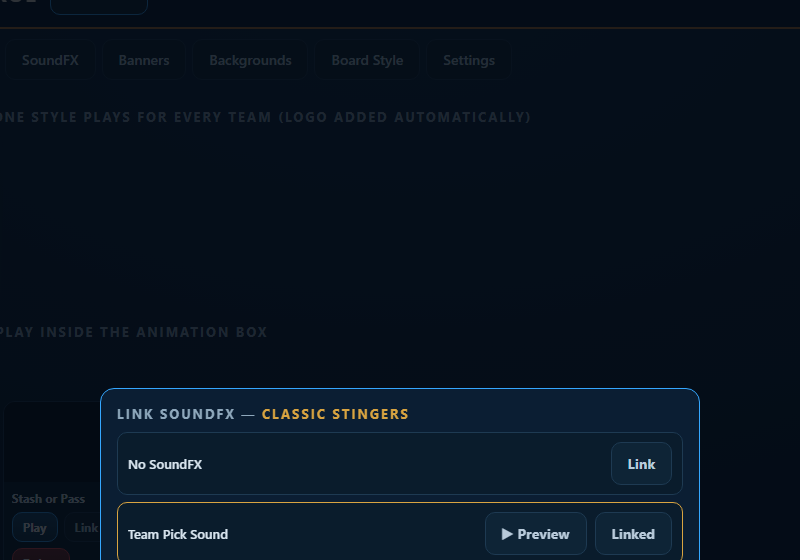
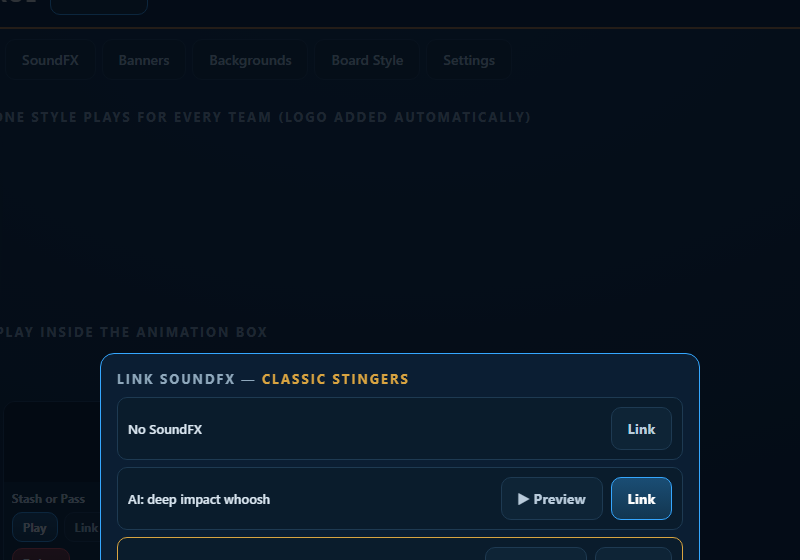
V3: acceptance passed 24/24 - transcript, screenshots, runbook + budget updated

Changed region(s): [[0.1562, 0.7589, 0.8438, 1.0], [0.125, 0.6071, 0.875, 0.7286], [0.125, 0.7286, 0.5312, 0.7893]]

diff --git a/control/index.html b/control/index.html
@@ -746,7 +746,8 @@
           <div class="meta"><div class="name">${esc(s.name)}</div>
             <div class="row"><button class="btn ${active?"ghost":""}" data-part="${stateKey}:${s.id}">
               ${active?"Applied":"Apply"}</button>${delBtn(s)}</div>
-            ${s.meta?.mode ? `<div class="row"><span class="tag">${s.meta.mode === "ambient" ? "always on" : "on team hit"}</span></div>` : ""}
+            ${s.meta?.mode && s.meta.mode !== "none"
+              ? `<div class="row"><span class="tag">${s.meta.mode === "ambient" ? "always on" : "on team hit"}</span></div>` : ""}
           </div></div>`; }).join("");
     };
     part("board_button", "#btnStyleGrid", "boardButtons", {icon:"🟨"});

diff --git a/RUNBOOK.md b/RUNBOOK.md
@@ -43,10 +43,17 @@ in the control panel → pick animation + sound + board slot on every PC at once
 3. **Pick the PC in the header dropdown first** — board taps, banner rotation,
    backgrounds, and styles apply to that PC's stream only ("ALL PCs" broadcasts).
    Uploads and AI generations always land in the shared library for every PC.
-4. Team Board = tap to eliminate (dims the team, plays animation + sound) / tap again
-   to bring back · Animations = team-animation styles + one-shots · Banners = composer +
-   rotation + Reframe · Backgrounds = set live + Reframe · Board Style = button/board
-   looks · AI Generate = new art (≈$0.03/image).
+4. Tabs: **Team Board** (tap to eliminate / tap again to restore) · **Animations**
+   (team-animation styles + one-shots, each with "Link SoundFX") · **SoundFX**
+   (upload/generate/preview sounds) · **Banners** (upload, composer, rotation,
+   Reframe) · **Backgrounds** (set live, Reframe) · **Board Style** (button style +
+   board background + button animation, mixed freely).
+5. Every media tab has an **AI generate** strip at the bottom; tabs with more than one
+   media type have a dropdown next to it. Costs: image ≈$0.03 (seconds), sound ≈$0.05
+   and animation ≈$0.20 (both take 1–4 minutes — leave the tab open).
+6. **Deleting**: any non-built-in asset card has Delete → it turns into "Are you sure?"
+   → click again. This removes the file, the library entry, and any use of it on every
+   PC. Built-in styles can't be deleted.
 
 ## Stream Deck buttons
 

diff --git a/BUDGET.md b/BUDGET.md
@@ -10,8 +10,12 @@
 | 2026-08-08 | M5: vision QA (Playwright, free) | $0.00 | $0.03 |
 | 2026-08-08 | M6: handoff + hardening (all free) | $0.00 | $0.03 |
 | 2026-08-08 | V2: AI board style acceptance test (2 FLUX images) | $0.06 | $0.09 |
+| 2026-08-08 | V3: AI sound effect (fal stable-audio, acceptance test) | $0.05 | $0.14 |
 
-**Running total: $0.09 spent of the $50 cap.**
+**Running total: $0.14 spent of the $50 cap.**
+
+Per-generation costs in the panel: FLUX image ≈$0.03 · stable-audio sound ≈$0.05 ·
+LTX-Video animation ≈$0.20 (video is the only one worth watching closely).
 
 Planned spend (not yet incurred): fal.ai starter credits $10.
 Rule: never batch-generate more than 10 images without asking.
